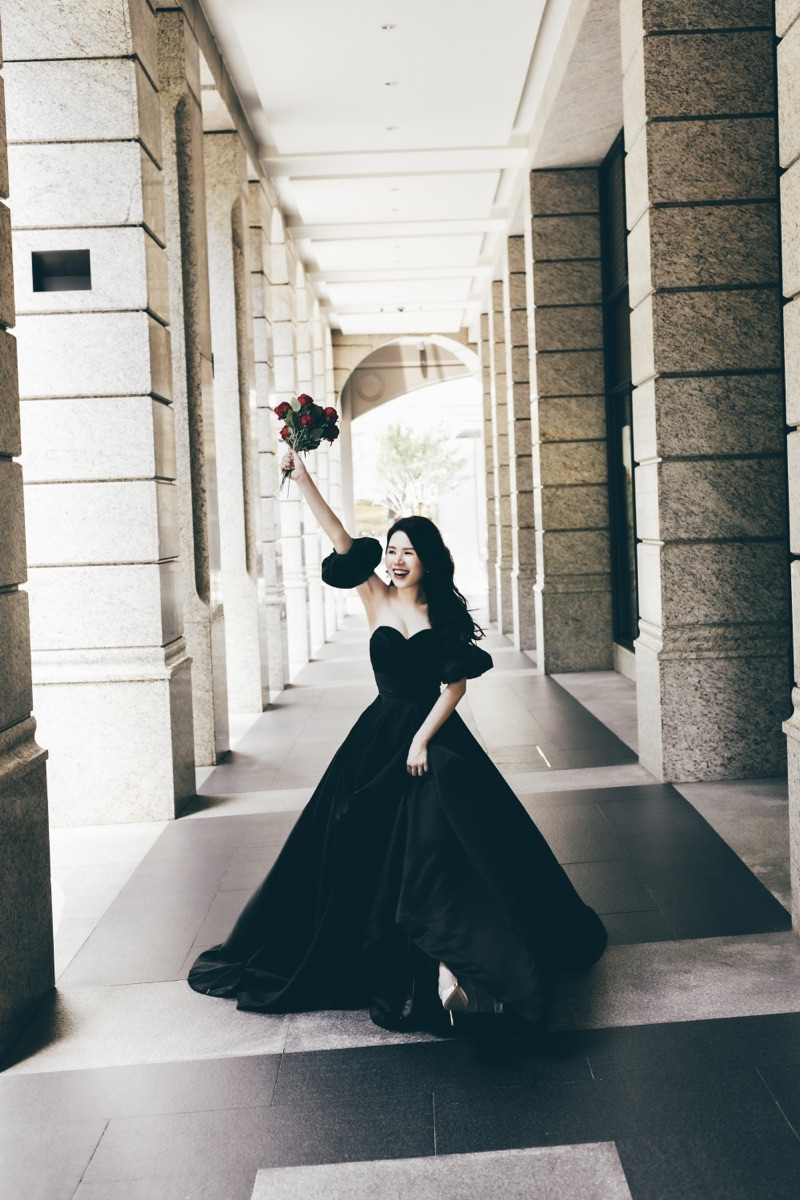
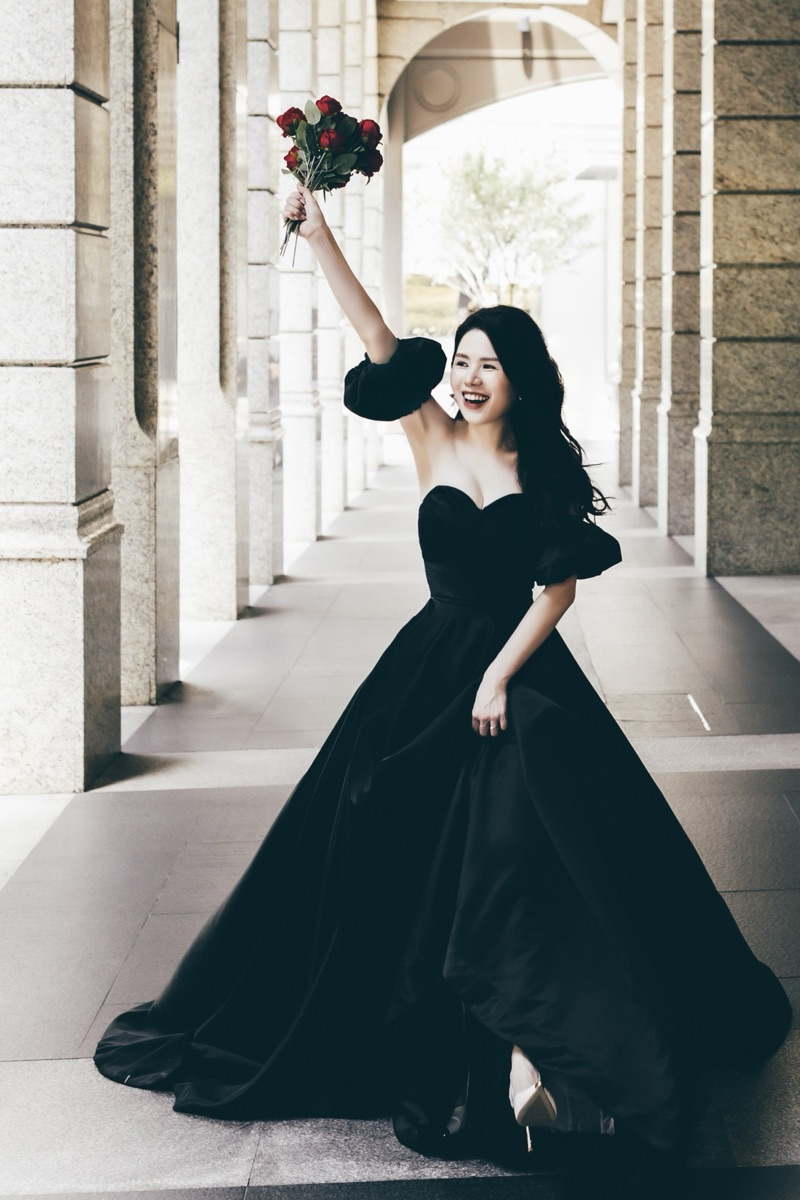
fix(carousel): Update re-cropped photo 0015, SW v60

diff --git a/sw.js b/sw.js
@@ -1,5 +1,5 @@
 /* Service Worker：讓婚禮網站可離線瀏覽 */
-const CACHE = "wedding-v59";
+const CACHE = "wedding-v60";
 
 // 核心檔案：改動網站後請把版本號 wedding-v1 改成 v2、v3…以更新快取
 const CORE_ASSETS = [
